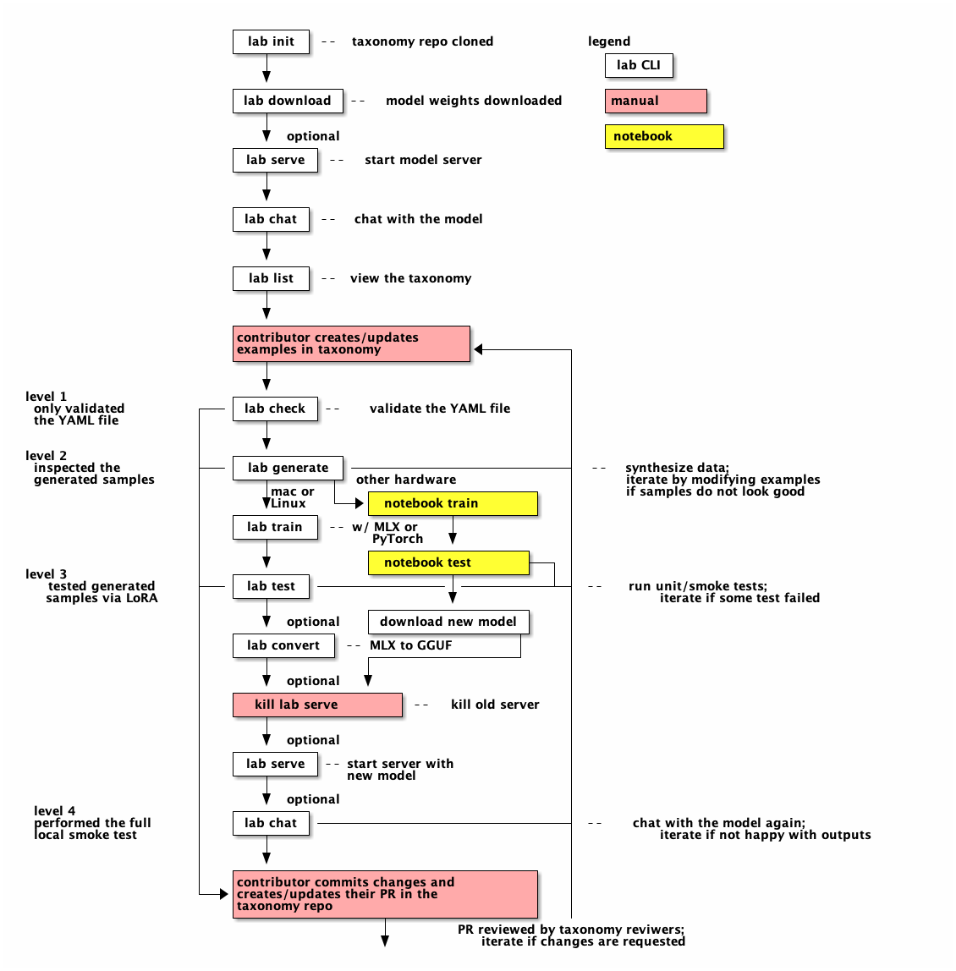
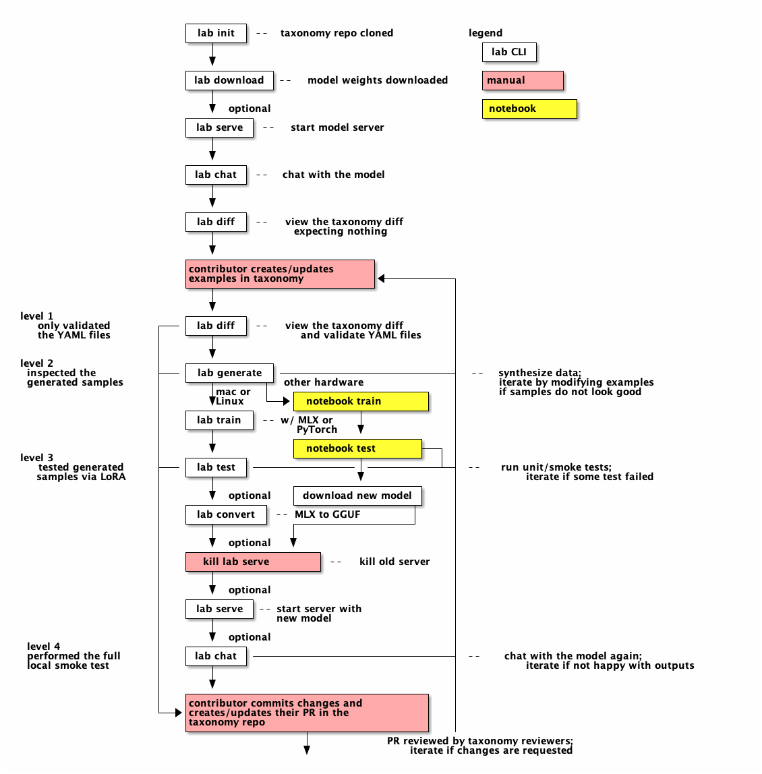
Consolidating `lab list` and `lab check` to `lab diff` (#728)
* refactor: consolidate lab list and lab check to lab diff

* docs: updated workflow

* format: run tox

* refactor: move deprecated_alias to utils

* fix: add missing dep

* fix: deprecated alias implementation

* fix: use old help msg

* fix: remove unused f-string

* test: consolidate lab list and lab check tests to lab diff

* test: consolidate lab list and lab check tests to lab diff

* format: run tox

* Update cli/lab.py

* fix: stick to exisitng behavior

---------

diff --git a/tests/test_lab_diff.py b/tests/test_lab_diff.py
@@ -1,4 +1,5 @@
 # Standard
+from pathlib import Path
 import unittest
 
 # Third Party
@@ -9,9 +10,29 @@ import pytest
 from cli import lab
 
 TAXONOMY_BASE = "main"
+TEST_VALID_YAML = b"""created_by: nathan-weinberg
+seed_examples:
+- answer: "Yes I can!"
+  context: "This unit test is valid!"
+  question: "Could you write a unit test?"
+task_description: ''
+"""
+TEST_INVALID_YAML = b"""created_by: nathan-weinberg
+seed_examples:
+- answer: "Yes I can!"
+  context: "This unit test has a line with 124 characters! It is too long for the default rules but not too long for the customer rules!"
+  question: "Could you write a unit test?"
+task_description: ''
+"""
+TEST_CUSTOM_YAML_RULES = b"""extends: relaxed
+
+rules:
+  line-length:
+    max: 180
+"""
 
 
-class TestLabList(unittest.TestCase):
+class TestLabDiff(unittest.TestCase):
     """Test collection for `lab list` command."""
 
     def __init__(self, *args, **kwargs):
@@ -21,7 +42,7 @@ class TestLabList(unittest.TestCase):
     def _init_taxonomy(self, taxonomy_dir):
         self.taxonomy = taxonomy_dir
 
-    def test_list(self):
+    def test_diff(self):
         untracked_file = "compositional_skills/new/qna.yaml"
         tracked_file = "compositional_skills/tracked/qna.yaml"
         self.taxonomy.create_untracked(untracked_file)
@@ -29,7 +50,7 @@ class TestLabList(unittest.TestCase):
         runner = CliRunner()
         with runner.isolated_filesystem():
             result = runner.invoke(
-                lab.list,
+                lab.diff,
                 [
                     "--taxonomy-base",
                     TAXONOMY_BASE,
@@ -41,14 +62,14 @@ class TestLabList(unittest.TestCase):
             self.assertNotIn(tracked_file, result.output)
             self.assertEqual(result.exit_code, 0)
 
-    def test_list_rm_tracked(self):
+    def test_diff_rm_tracked(self):
         tracked_file = "compositional_skills/tracked/qna.yaml"
         self.taxonomy.add_tracked(tracked_file)
         self.taxonomy.remove_file(tracked_file)
         runner = CliRunner()
         with runner.isolated_filesystem():
             result = runner.invoke(
-                lab.list,
+                lab.diff,
                 [
                     "--taxonomy-base",
                     TAXONOMY_BASE,
@@ -59,13 +80,13 @@ class TestLabList(unittest.TestCase):
             self.assertNotIn(tracked_file, result.output)
             self.assertEqual(result.exit_code, 0)
 
-    def test_list_invalid_ext(self):
+    def test_diff_invalid_ext(self):
         untracked_file = "compositional_skills/writing/new/qna.YAML"
         self.taxonomy.create_untracked(untracked_file)
         runner = CliRunner()
         with runner.isolated_filesystem():
             result = runner.invoke(
-                lab.list,
+                lab.diff,
                 [
                     "--taxonomy-base",
                     TAXONOMY_BASE,
@@ -78,12 +99,12 @@ class TestLabList(unittest.TestCase):
             self.assertNotIn(untracked_file, result.output)
             self.assertEqual(result.exit_code, 0)
 
-    def test_list_invalid_base(self):
+    def test_diff_invalid_base(self):
         taxonomy_base = "invalid"
         runner = CliRunner()
         with runner.isolated_filesystem():
             result = runner.invoke(
-                lab.list,
+                lab.diff,
                 [
                     "--taxonomy-base",
                     taxonomy_base,
@@ -99,12 +120,12 @@ class TestLabList(unittest.TestCase):
             )
             self.assertEqual(result.exit_code, 0)
 
-    def test_list_invalid_path(self):
+    def test_diff_invalid_path(self):
         taxonomy_path = "/path/to/taxonomy"
         runner = CliRunner()
         with runner.isolated_filesystem():
             result = runner.invoke(
-                lab.list,
+                lab.diff,
                 [
                     "--taxonomy-base",
                     TAXONOMY_BASE,
@@ -115,3 +136,63 @@ class TestLabList(unittest.TestCase):
             self.assertIsNone(result.exception)
             self.assertIn(f"{taxonomy_path}", result.output)
             self.assertEqual(result.exit_code, 0)
+
+    def test_diff_valid_yaml(self):
+        valid_yaml_file = "compositional_skills/qna_valid.yaml"
+        self.taxonomy.create_untracked(valid_yaml_file, TEST_VALID_YAML)
+        runner = CliRunner()
+        result = runner.invoke(
+            lab.diff,
+            [
+                "--taxonomy-base",
+                TAXONOMY_BASE,
+                "--taxonomy-path",
+                self.taxonomy.root,
+                "--quiet",
+            ],
+        )
+        self.assertIn(f"Taxonomy in {self.taxonomy.root} is valid :)", result.output)
+        self.assertEqual(result.exit_code, 0)
+
+    def test_diff_invalid_yaml(self):
+        invalid_yaml_file = "compositional_skills/qna_invalid.yaml"
+        self.taxonomy.create_untracked(invalid_yaml_file, TEST_INVALID_YAML)
+        runner = CliRunner()
+        result = runner.invoke(
+            lab.diff,
+            [
+                "--taxonomy-base",
+                TAXONOMY_BASE,
+                "--taxonomy-path",
+                self.taxonomy.root,
+                "--quiet",
+            ],
+        )
+        self.assertIn(
+            "1 taxonomy files with errors!",
+            result.output,
+        )
+        self.assertEqual(result.exit_code, 1)
+
+    def test_diff_custom_yaml(self):
+        custom_rules_file = Path("custom_rules.yaml")
+        custom_rules_file.write_bytes(TEST_CUSTOM_YAML_RULES)
+        invalid_yaml_file = "compositional_skills/qna_invalid.yaml"
+        self.taxonomy.create_untracked(invalid_yaml_file, TEST_INVALID_YAML)
+        runner = CliRunner()
+        result = runner.invoke(
+            lab.diff,
+            [
+                "--taxonomy-base",
+                TAXONOMY_BASE,
+                "--taxonomy-path",
+                self.taxonomy.root,
+                "--yaml-rules",
+                custom_rules_file,
+                "--quiet",
+            ],
+        )
+        # custom yaml rules mean "invalid" yaml file should pass
+        self.assertIn(f"Taxonomy in {self.taxonomy.root} is valid :)", result.output)
+        self.assertEqual(result.exit_code, 0)
+        Path.unlink(custom_rules_file)

diff --git a/cli/lab.py b/cli/lab.py
@@ -198,48 +198,11 @@ def init(
 @click.option(
     "--taxonomy-path",
     type=click.Path(),
-    help=f"Path to {config.DEFAULT_TAXONOMY_REPO} clone.",
-)
-@click.option(
-    "--taxonomy-base",
-    help="Base git-ref to use when listing new taxonomy.",
-)
-@click.pass_context
-# pylint: disable=redefined-builtin,unused-argument
-def list(ctx, taxonomy_path, taxonomy_base):
-    """
-    Lists taxonomy files that have changed since <taxonomy-base>.
-    Similar to 'git diff <ref>'
-    """
-    # pylint: disable=C0415
-    # Local
-    from .generator.generate_data import get_taxonomy_diff
-
-    if not taxonomy_base:
-        taxonomy_base = ctx.obj.config.generate.taxonomy_base
-    if not taxonomy_path:
-        taxonomy_path = ctx.obj.config.generate.taxonomy_path
-    try:
-        updated_taxonomy_files = get_taxonomy_diff(taxonomy_path, taxonomy_base)
-    except (SystemExit, GitError) as exc:
-        click.secho(
-            f"Generating dataset failed with the following error: {exc}",
-            fg="red",
-        )
-        return
-    for f in updated_taxonomy_files:
-        click.echo(f)
-
-
-@cli.command()
-@click.option(
-    "--taxonomy-path",
-    type=click.Path(),
     help=f"Path to {config.DEFAULT_TAXONOMY_REPO} clone or local file path.",
 )
 @click.option(
     "--taxonomy-base",
-    help="Base git-ref to use when checking taxonomy.",
+    help="Base git-ref to use for taxonomy.",
 )
 @click.option(
     "--yaml-rules",
@@ -248,31 +211,56 @@ def list(ctx, taxonomy_path, taxonomy_base):
     show_default=True,
     help="Custom rules file for YAML linting",
 )
+@click.option(
+    "--quiet",
+    is_flag=True,
+    help="Suppress the diff list.",
+)
 @click.pass_context
-def check(ctx, taxonomy_path, taxonomy_base, yaml_rules):
-    """Check that taxonomy is valid"""
+def diff(ctx, taxonomy_path, taxonomy_base, yaml_rules, quiet):
+    """
+    Lists taxonomy files that have changed since <taxonomy-base>.
+    Similar to 'git diff <ref>' and check that taxonomy is valid.
+    """
     # pylint: disable=C0415
     # Local
-    from .generator.generate_data import read_taxonomy
+    from .generator.generate_data import get_taxonomy_diff, read_taxonomy
 
     if not taxonomy_base:
         taxonomy_base = ctx.obj.config.generate.taxonomy_base
     if not taxonomy_path:
         taxonomy_path = ctx.obj.config.generate.taxonomy_path
-    if not yaml_rules:
-        yaml_rules = ctx.obj.config.generate.yaml_rules
-    if not ctx.obj:
-        logger = logging.getLogger(__name__)
+    if quiet:
+        if not yaml_rules:
+            yaml_rules = ctx.obj.config.generate.yaml_rules
+        if not ctx.obj:
+            logger = logging.getLogger(__name__)
+        else:
+            logger = ctx.obj.logger
+        # pylint: disable=logging-fstring-interpolation
+        logger.debug(f"Checking taxonomy: '{taxonomy_path}:{taxonomy_base}'")
+        read_taxonomy(logger, taxonomy_path, taxonomy_base, yaml_rules)
+        # below will only run if `read_taxonomy` throws no errors
+        click.secho(
+            f"Taxonomy in {taxonomy_path} is valid :)",
+            fg="green",
+        )
     else:
-        logger = ctx.obj.logger
-    # pylint: disable=logging-fstring-interpolation
-    logger.debug(f"Checking taxonomy: '{taxonomy_path}:{taxonomy_base}'")
-    read_taxonomy(logger, taxonomy_path, taxonomy_base, yaml_rules)
-    # below will only run if `read_taxonomy` throws no errors
-    click.secho(
-        f"Taxonomy in {taxonomy_path} is valid :)",
-        fg="green",
-    )
+        try:
+            updated_taxonomy_files = get_taxonomy_diff(taxonomy_path, taxonomy_base)
+        except (SystemExit, GitError) as exc:
+            click.secho(
+                f"Reading taxonomy failed with the following error: {exc}",
+                fg="red",
+            )
+            return
+        for f in updated_taxonomy_files:
+            click.echo(f)
+
+
+# lab list => lab diff
+# lab check => lab diff --quiet
+utils.make_lab_diff_aliases(cli, diff)
 
 
 @cli.command()

diff --git a/cli/utils.py b/cli/utils.py
@@ -1,8 +1,12 @@
 # Standard
+import copy
 import functools
 import os
 import platform
 import subprocess
+
+# Third Party
+import click
 
 
 def macos_requirement(echo_func, exit_exception):
@@ -48,3 +52,42 @@ def expand_path(path):
     path = os.path.expanduser(path)
     path = os.path.expandvars(path)
     return path
+
+
+def make_lab_diff_aliases(cli, diff):
+    lab_list = copy.deepcopy(diff)
+    lab_list.name = "list"
+    lab_list.help = """
+    Lists taxonomy files that have changed since <taxonomy-base>.
+    Similar to 'git diff <ref>'
+    """
+    lab_list.deprecated = True
+
+    def lab_list_callback(*args, **kwargs):
+        click.secho(
+            "DeprecationWarning: Use `lab diff` instead.",
+            fg="red",
+        )
+        retval = diff.callback(*args, **kwargs)
+        return retval
+
+    lab_list.callback = lab_list_callback
+    cli.add_command(lab_list)
+
+    lab_check = copy.deepcopy(diff)
+    lab_check.name = "check"
+    lab_check.help = "Check that taxonomy is valid"
+    lab_check.deprecated = True
+    # use `--quiet` for current `lab check` behavior
+    lab_check.params = lab_check.params[:3]
+
+    def lab_check_callback(*args, **kwargs):
+        click.secho(
+            "DeprecationWarning: Use `lab diff --quiet` instead.",
+            fg="red",
+        )
+        retval = diff.callback(*args, **kwargs, quiet=True)
+        return retval
+
+    lab_check.callback = lab_check_callback
+    cli.add_command(lab_check)
